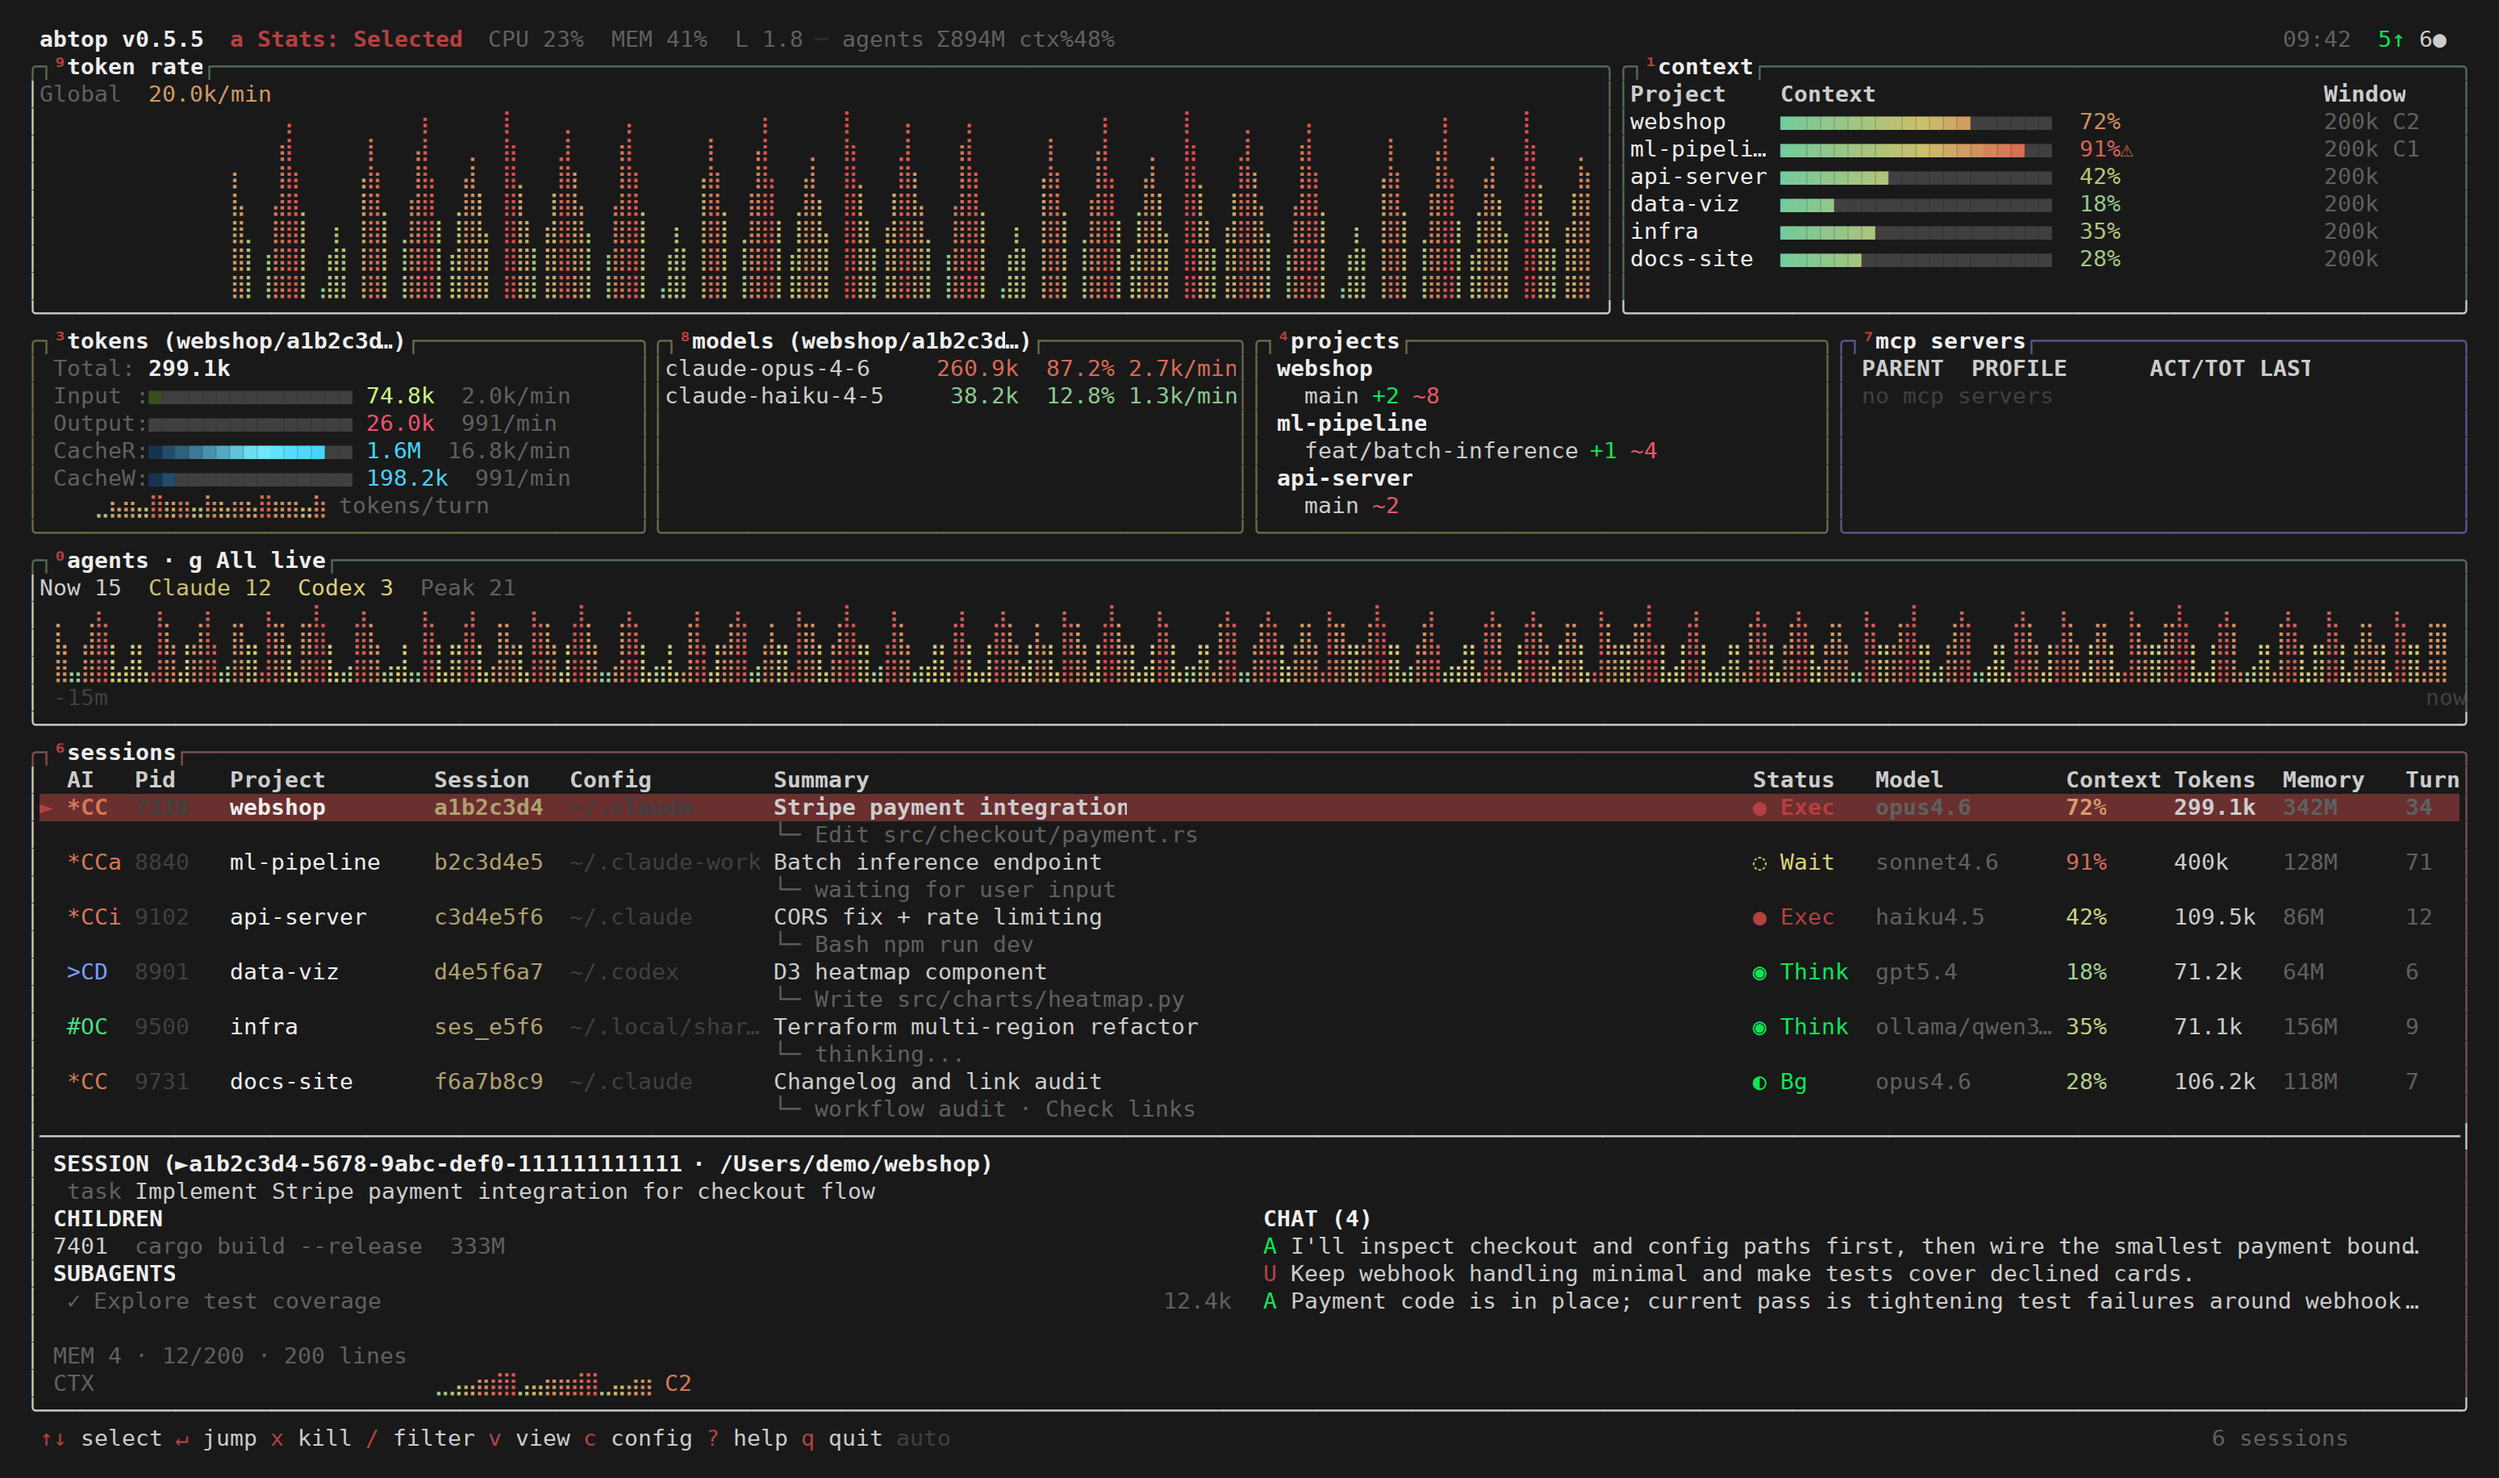
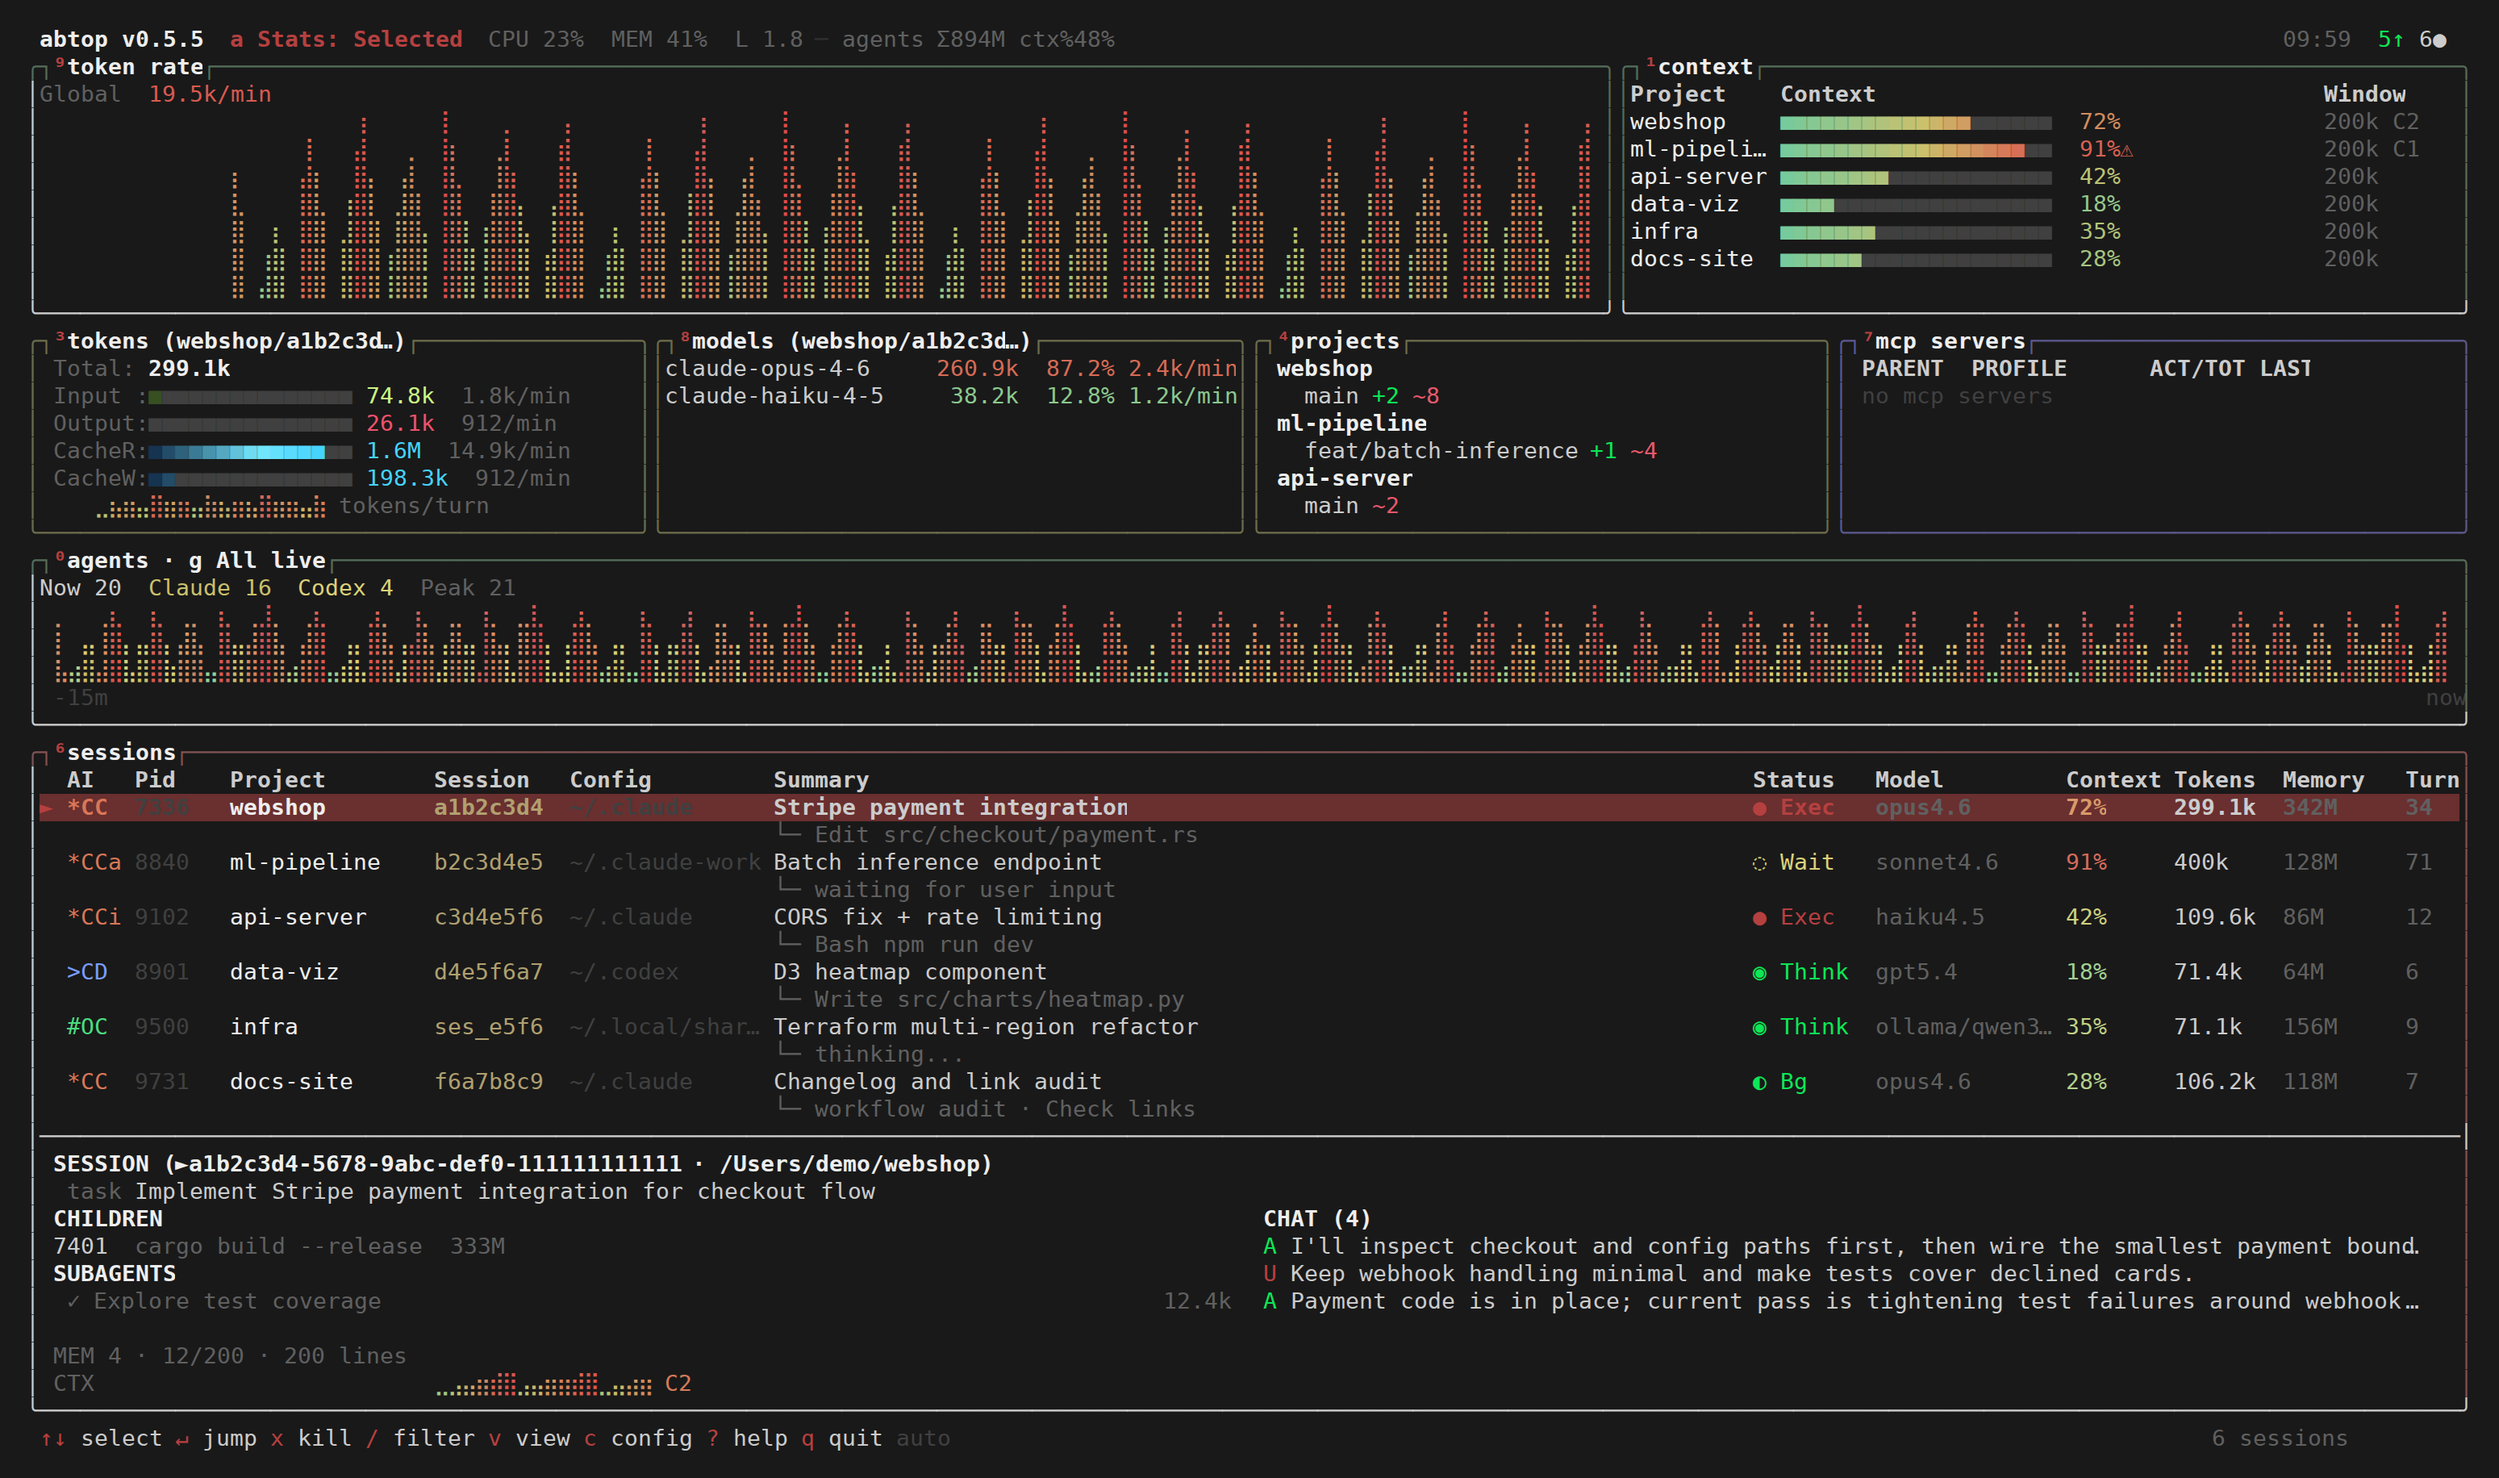
docs: show the cache-read chart in the overview screenshot
The overview now enables C, so the second shot only demonstrates the All
live scope and is renamed all-live.png.

diff --git a/docs/remix-features.md b/docs/remix-features.md
@@ -19,7 +19,7 @@ Every screenshot comes from `abtop --demo` and is regenerated with
 | Progressive startup | — | — | [Startup](#progressive-startup) |
 | Totals exclude cache reads | — | — | [Token accounting](#token-accounting) |
 
-![abtop remix overview](../assets/remix/overview.png)
+![abtop remix overview, with the cache-read chart enabled](../assets/remix/overview.png)
 
 ## Token accounting
 
@@ -59,7 +59,7 @@ All live adds the lifetime usage of all confirmed live sessions from enabled col
 
 Aggregate model shares use the combined token total, and average tokens per turn is the combined total divided by the combined turn count. The aggregate Tokens sparkline shows combined rolling `tokens/min`, excluding cache reads, sampled on each refresh for the sessions live at that time (up to 200 samples). History is collected even in Selected mode; discovering a session does not turn its past usage into a rate spike. Existing collector accounting is preserved: Claude session totals already include tracked subagents, while Codex and OpenCode totals cover each session itself.
 
-![Cache-read chart and All live scope](../assets/remix/cache-all-live.png)
+![All live scope](../assets/remix/all-live.png)
 
 ## Token rate and Context panes
 

diff --git a/README.md b/README.md
@@ -23,11 +23,11 @@ This is the [`raphberube/abtop`](https://github.com/raphberube/abtop) fork (`rem
 
 Details for each feature: [docs/remix-features.md](docs/remix-features.md).
 
-![Overview: Token rate, Context, Tokens and Models rates, Agents pane, and a Bg session](assets/remix/overview.png)
+![Overview: Token rate with the cache-read chart, Context, Tokens and Models rates, Agents pane, and a Bg session](assets/remix/overview.png)
 
-| Cache-read chart and All live scope (`C`, `a`) | Narrow terminal, Usage tab (`u`) |
+| All live scope (`a`) | Narrow terminal, Usage tab (`u`) |
 |:-:|:-:|
-| ![Cache-read chart with Reuse %, Tokens and Models in All live scope](assets/remix/cache-all-live.png) | ![Narrow Usage tab](assets/remix/narrow-usage.png) |
+| ![Tokens and Models summed across all live sessions](assets/remix/all-live.png) | ![Narrow Usage tab](assets/remix/narrow-usage.png) |
 
 Hiding panes you don't need gives the rest more room. With Quota (`2`) and Ports (`5`) off, Tokens and Models widen:
 
